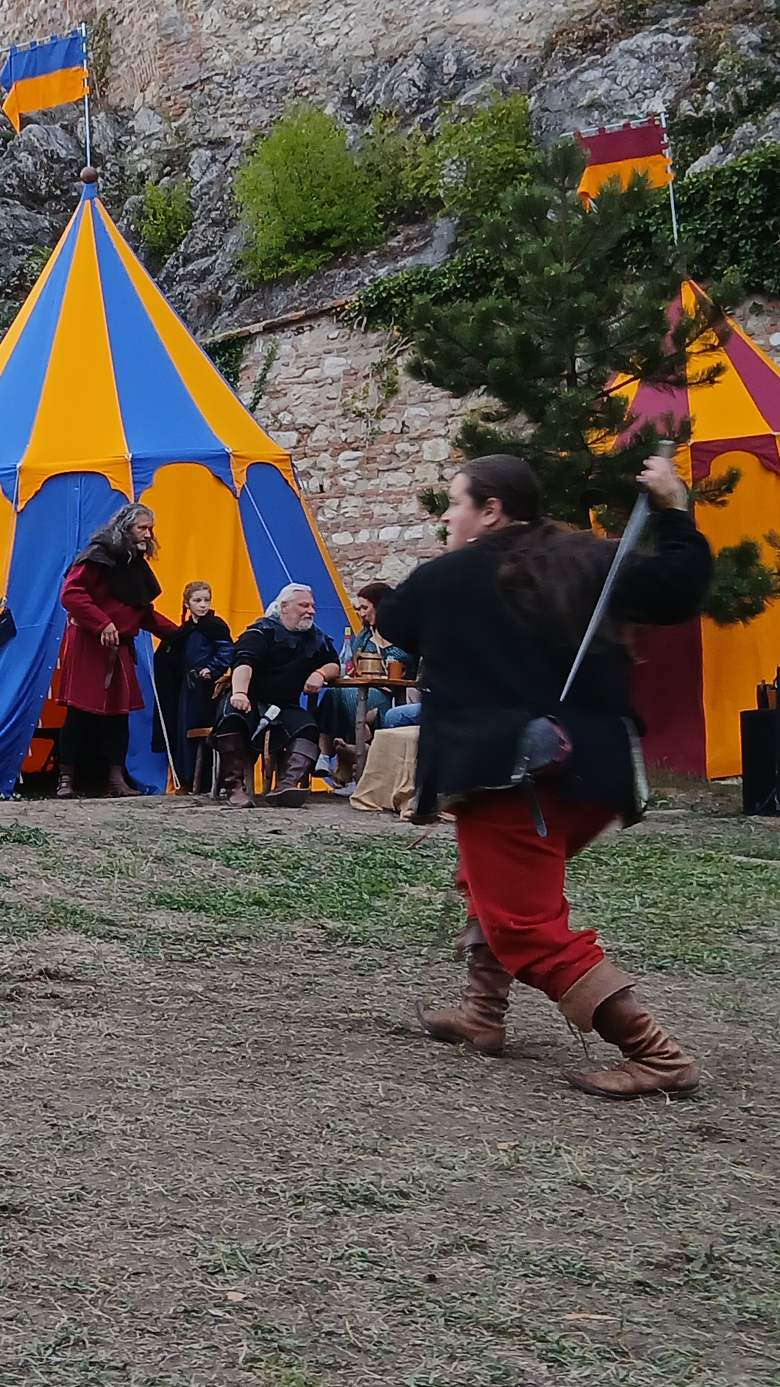
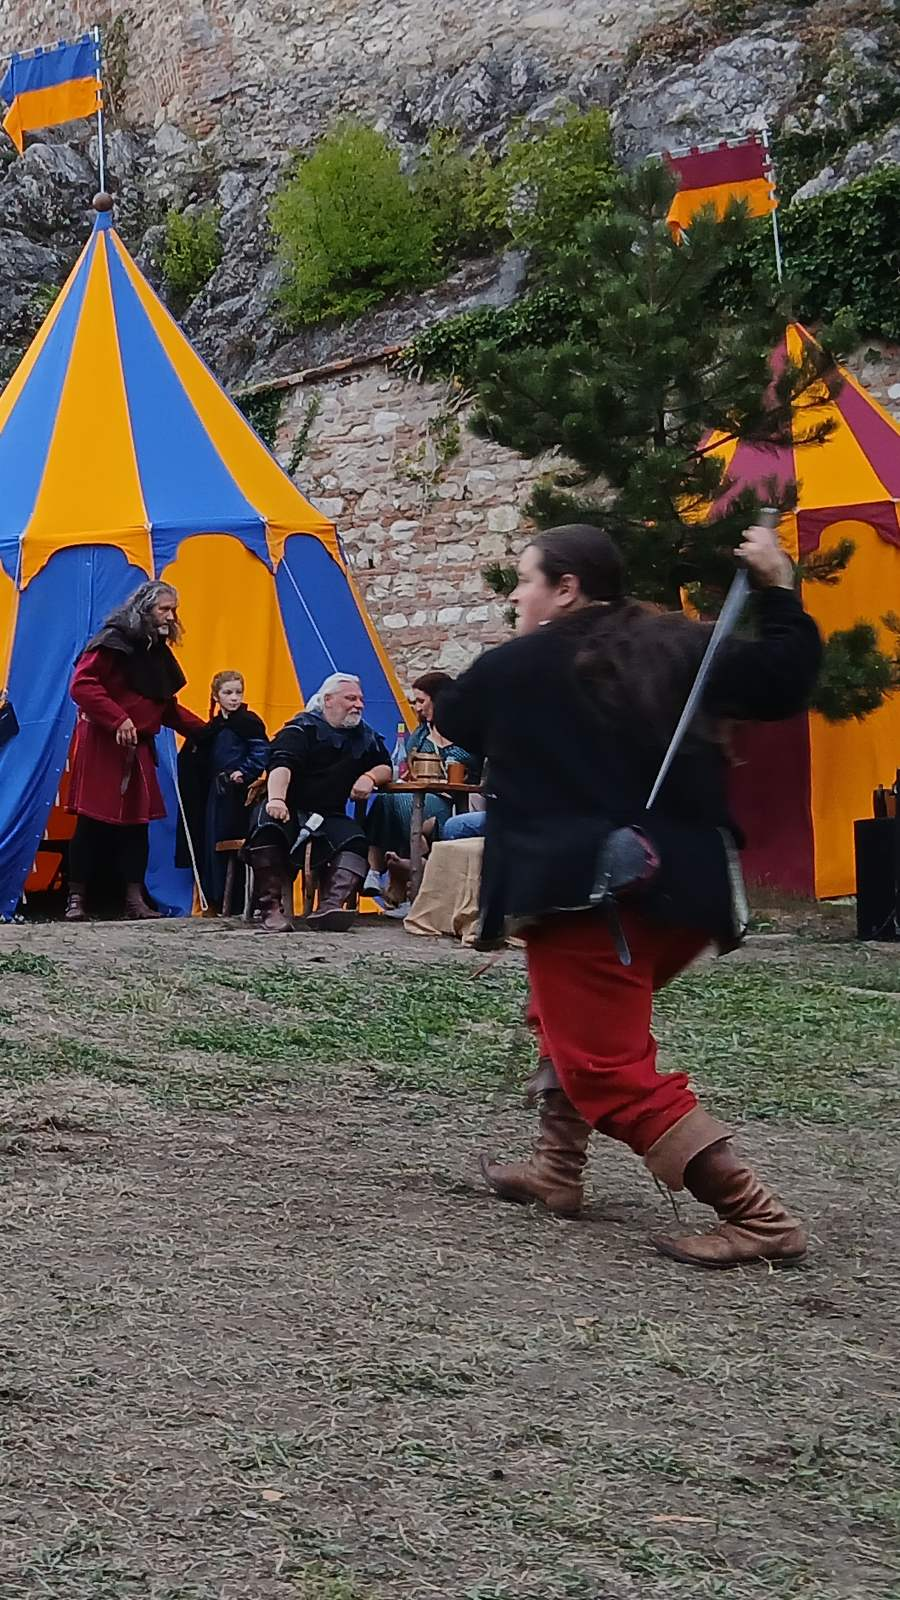
Zvětšit portrétní hero výřezy na 900 px pro ostré DPR2

diff --git a/scripts/optimize-images.py b/scripts/optimize-images.py
@@ -70,7 +70,7 @@ MOBILE_VARIANTS = {
 # `object-fit: cover` na ~390×850 px roztáhl a rozmazal; výřez z originálu je ostrý.
 # (src, střed výřezu jako podíl šířky originálu, kvalita)
 PORTRAIT_RATIO = 9 / 16
-PORTRAIT_WIDTH = 780  # = 2× šířka telefonu 390 px; víc by webp přesáhlo ~200 kB
+PORTRAIT_WIDTH = 900  # = 2× šířka telefonu 390 px + rezerva pro DPR 2 (1600 px na výšku)
 PORTRAITS = {
     # hero-1: stan a hlavní šermíř vpravo od středu
     'hero-1.jpeg': (0.70, 64),
